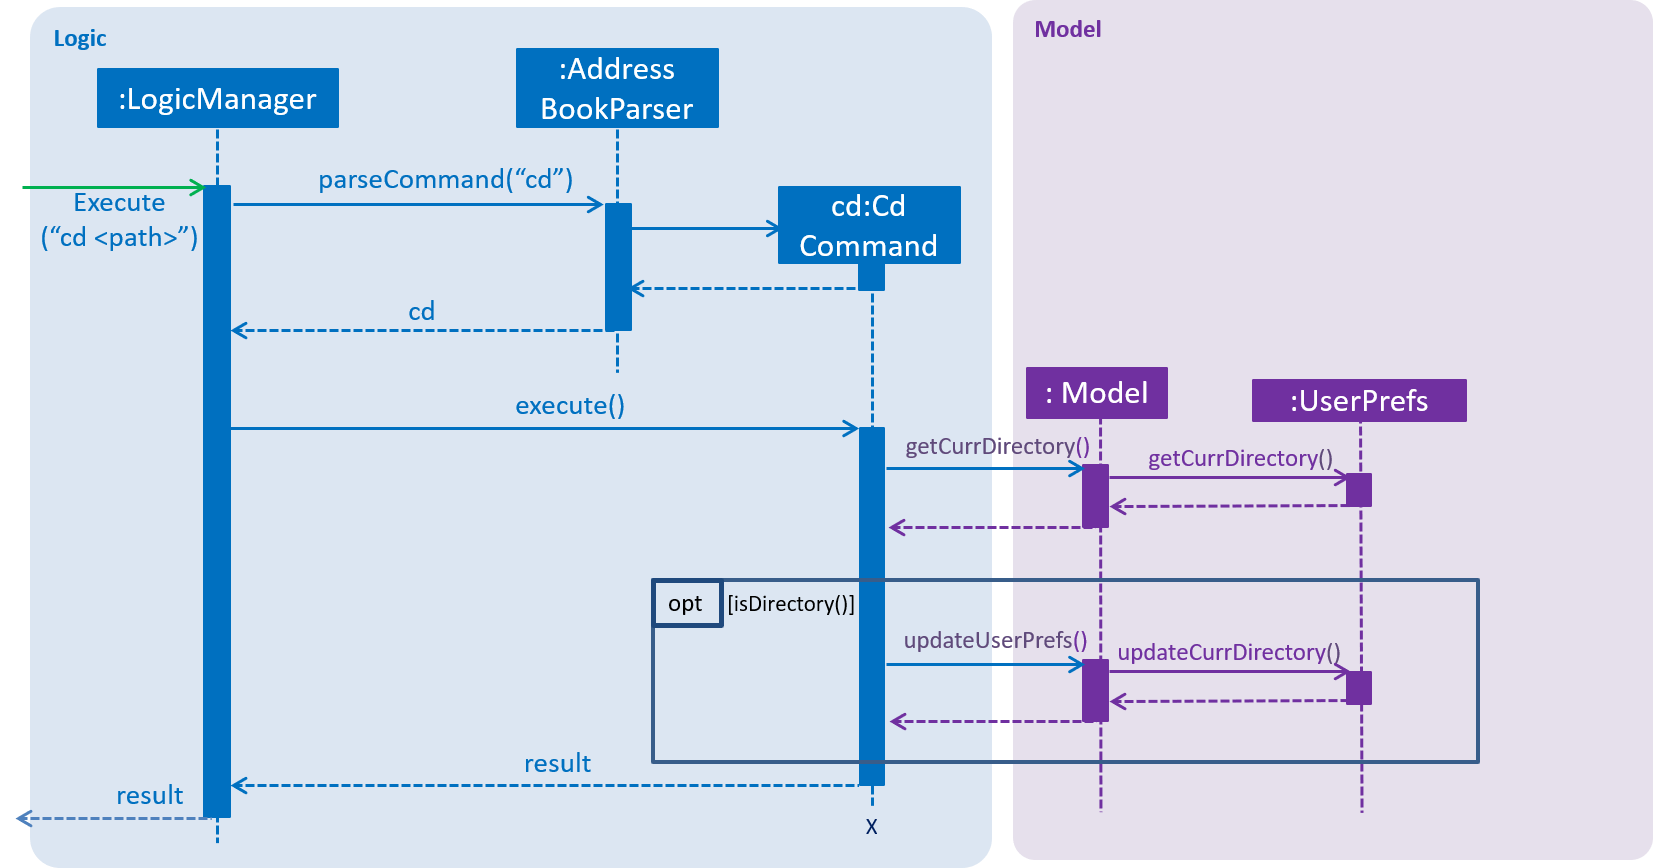
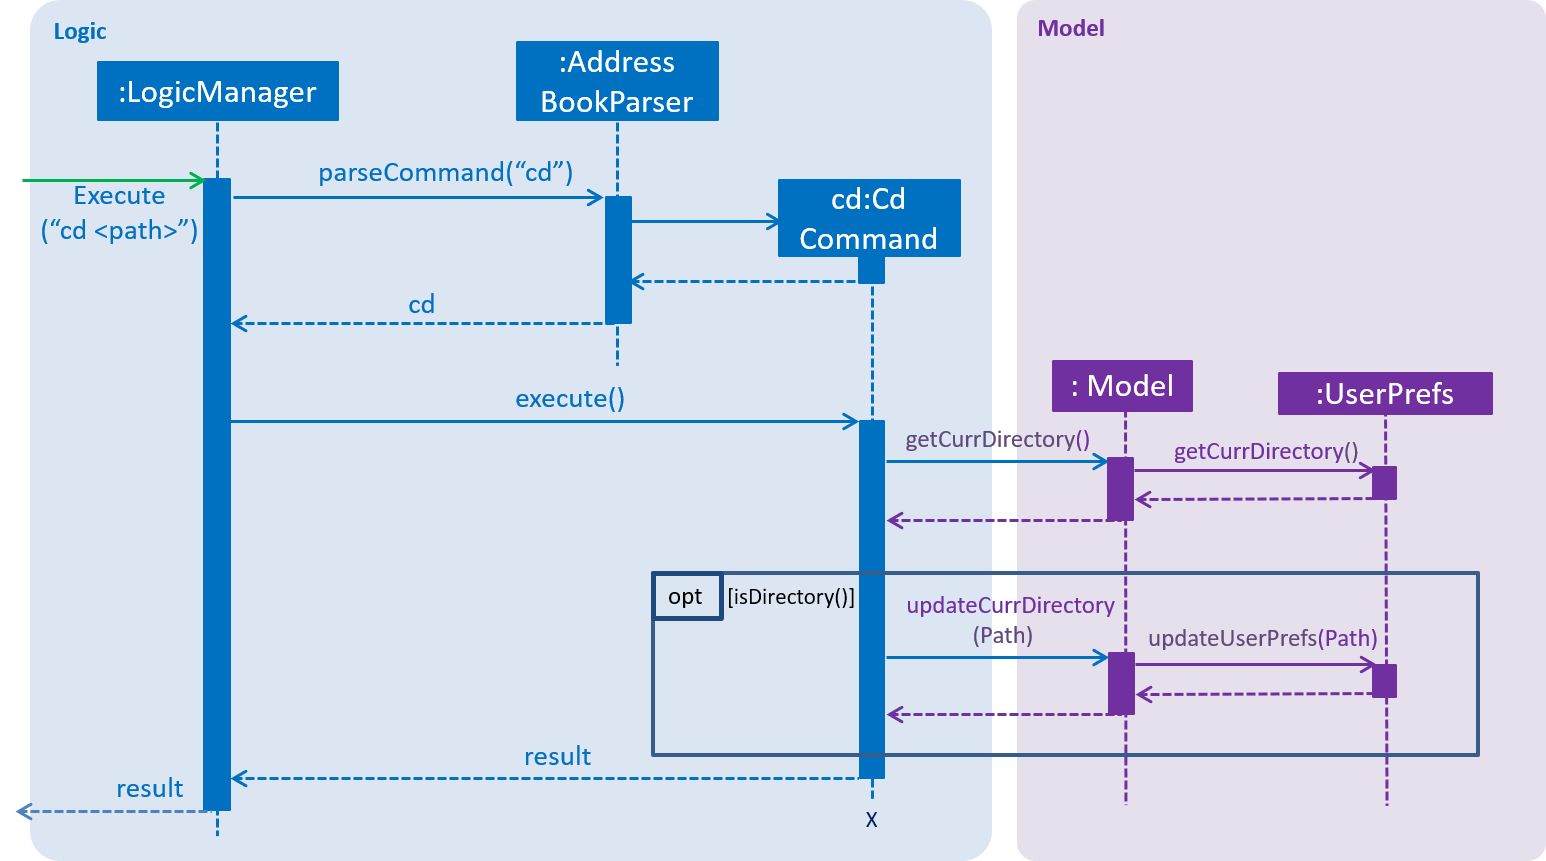
update files from feedback

Changed region(s): [[0.0, 0.0, 1.0, 1.0], [0.9314, 0.8455, 0.9625, 0.8757], [0.8072, 0.8455, 0.8383, 0.8757]]

diff --git a/src/test/java/seedu/address/logic/commands/CdCommandTest.java b/src/test/java/seedu/address/logic/commands/CdCommandTest.java
@@ -44,15 +44,15 @@ public class CdCommandTest {
         assertTrue(Paths.get(currDir).normalize().equals(model.getCurrDirectory()));
 
         // change to Desktop
-        model.updateUserPrefs(model.getCurrDirectory().resolve("Desktop").normalize());
+        model.updateCurrDirectory(model.getCurrDirectory().resolve("Desktop").normalize());
         assertTrue(Paths.get(nextDir).normalize().equals(model.getCurrDirectory()));
 
         // change to previous directory
-        model.updateUserPrefs(model.getCurrDirectory().resolve("..").normalize());
+        model.updateCurrDirectory(model.getCurrDirectory().resolve("..").normalize());
         assertTrue(Paths.get(currDir).normalize().equals(model.getCurrDirectory()));
 
         // change to previous directory
-        model.updateUserPrefs(model.getCurrDirectory().resolve("..").normalize());
+        model.updateCurrDirectory(model.getCurrDirectory().resolve("..").normalize());
         assertTrue(Paths.get(prevDir).normalize().equals(model.getCurrDirectory()));
 
         // different paths -> returns false

diff --git a/src/main/java/seedu/address/logic/commands/CdCommand.java b/src/main/java/seedu/address/logic/commands/CdCommand.java
@@ -1,4 +1,4 @@
-//@author benedictcss
+//@@author benedictcss
 package seedu.address.logic.commands;
 
 import static java.util.Objects.requireNonNull;
@@ -48,11 +48,12 @@ public class CdCommand extends Command {
         Path newCurrDirectory = Paths.get("");
         try {
             newCurrDirectory = dir.toPath().toRealPath();
-            model.updateUserPrefs(newCurrDirectory);
+            model.updateCurrDirectory(newCurrDirectory);
             model.updateImageList();
         } catch (IOException e) {
             e.printStackTrace();
         }
+
         return new CommandResult(newCurrDirectory.toString() + "\n"
                 + String.format(Messages.MESSAGE_TOTAL_IMAGES_IN_DIR, model.getDirectoryImageList().size())
                 + String.format(Messages.MESSAGE_CURRENT_IMAGES_IN_BATCH,

diff --git a/src/main/java/seedu/address/logic/commands/SelectCommand.java b/src/main/java/seedu/address/logic/commands/SelectCommand.java
@@ -72,7 +72,8 @@ public class SelectCommand extends Command {
         //        new Image("https://api.thecatapi.com/v1/images/search?format=src&size=full"), "preview"));
         //EventsCenter.getInstance().post(new ChangeImageEvent(
         //        new Image("https://api.thecatapi.com/v1/images/search?format=src&size=full"), "original"));
-        return new CommandResult(String.format(MESSAGE_SELECT_IMAGE_SUCCESS, targetIndex.getOneBased()));
+        return new CommandResult(String.format(MESSAGE_SELECT_IMAGE_SUCCESS, targetIndex.getOneBased())
+                + " of " + Math.min(SelectCommand.BATCH_SIZE, model.getDirectoryImageList().size()));
 
     }
 

diff --git a/src/main/java/seedu/address/model/ModelManager.java b/src/main/java/seedu/address/model/ModelManager.java
@@ -254,8 +254,8 @@ public class ModelManager extends ComponentManager implements Model {
     //=========== Update UserPrefs ==========================================================================
 
     @Override
-    public void updateUserPrefs(Path newCurrDirectory) {
-        this.userPrefs.updateCurrDirectory(newCurrDirectory);
+    public void updateCurrDirectory(Path newCurrDirectory) {
+        this.userPrefs.updateUserPrefs(newCurrDirectory);
     }
 
     @Override

diff --git a/src/main/java/seedu/address/model/UserPrefs.java b/src/main/java/seedu/address/model/UserPrefs.java
@@ -54,7 +54,7 @@ public class UserPrefs {
      * Update the current directory {@code currDirectory} with the new directory
      * {@code newCurrDirectory}
      */
-    public void updateCurrDirectory(Path newCurrDirectory) {
+    public void updateUserPrefs(Path newCurrDirectory) {
         this.currDirectory = newCurrDirectory;
     }
 

diff --git a/src/test/java/seedu/address/logic/commands/AddCommandTest.java b/src/test/java/seedu/address/logic/commands/AddCommandTest.java
@@ -167,7 +167,7 @@ public class AddCommandTest {
         }
 
         @Override
-        public void updateUserPrefs(Path newCurrDirectory) {
+        public void updateCurrDirectory(Path newCurrDirectory) {
             throw new AssertionError("This method should not be called.");
         }
         @Override

diff --git a/src/main/java/seedu/address/model/Model.java b/src/main/java/seedu/address/model/Model.java
@@ -94,7 +94,7 @@ public interface Model {
     /**
      * Updates the userPrefs current directory.
      */
-    void updateUserPrefs(Path newCurrDirectory);
+    void updateCurrDirectory(Path newCurrDirectory);
 
     /**
      * Retrieves the userPrefs current directory.
